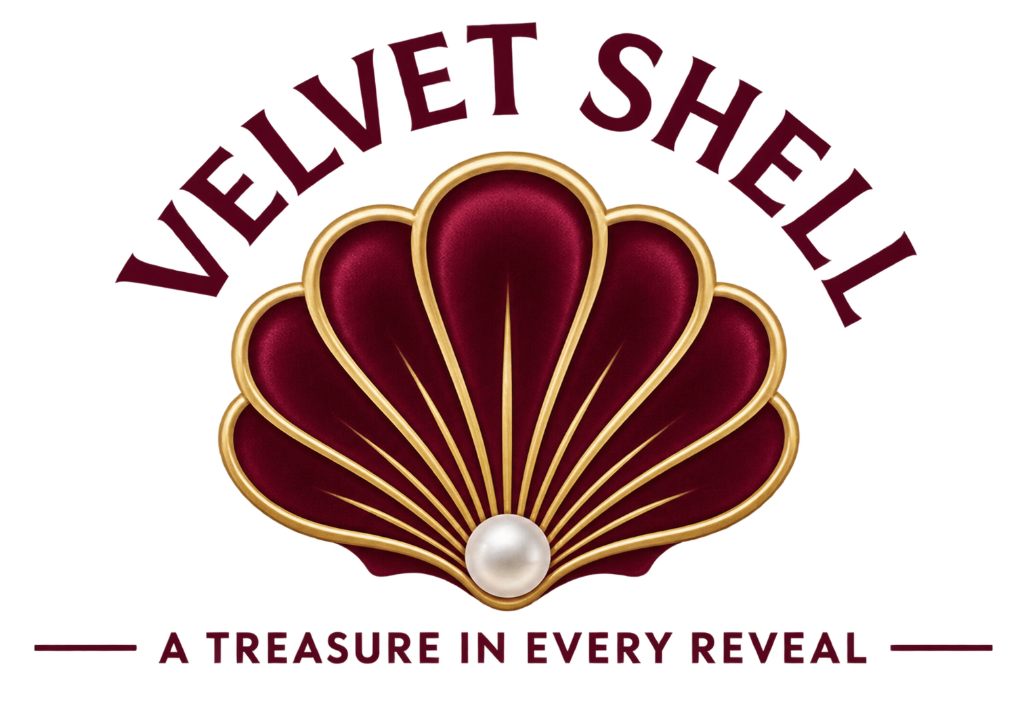
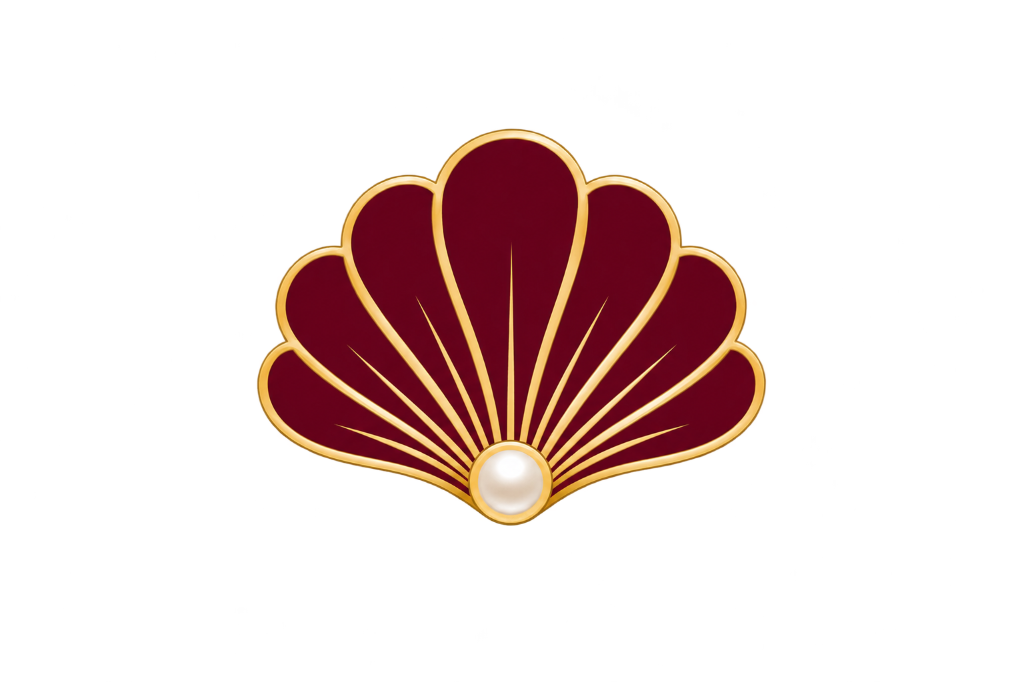
first commit

diff --git a/app/layout.js b/app/layout.js
@@ -14,6 +14,11 @@ export const metadata = {
   },
   description:
     'Velvet Shell is where beautiful things become meaningful discoveries. A premium house of jewellery, gifting, fragrances, home and lifestyle creations.',
+  icons: {
+    icon: [{ url: '/favicon.png', type: 'image/png' }],
+    shortcut: [{ url: '/favicon.png', type: 'image/png' }],
+    apple: [{ url: '/favicon.png', type: 'image/png' }],
+  },
 };
 
 export const viewport = {
@@ -32,6 +37,9 @@ export default function RootLayout({ children }) {
           href="https://fonts.googleapis.com/css2?family=Bodoni+Moda:wght@400;600&family=Great+Vibes&family=Montserrat:wght@500;600;700&family=Playfair+Display:ital,wght@0,400;0,600;0,700;1,400;1,600;1,700&family=Poppins:wght@400;500;600&display=swap"
           rel="stylesheet"
         />
+        <link rel="icon" href="/favicon.png" type="image/png" />
+        <link rel="shortcut icon" href="/favicon.png" type="image/png" />
+        <link rel="apple-touch-icon" href="/favicon.png" />
         <link rel="preload" as="image" href="/logo-splash.png" fetchPriority="high" />
       </head>
       <body className="bg-white font-sans text-ink antialiased">
